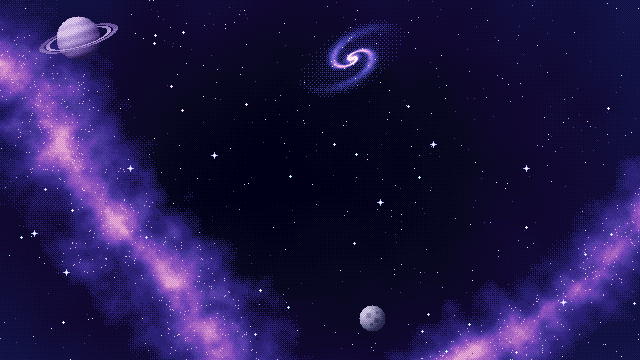
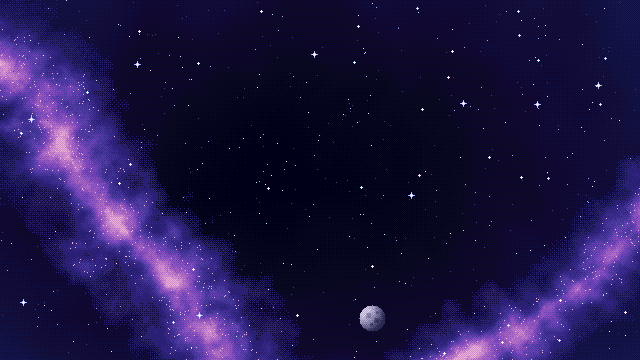
성탑 우주 배경: 고리 행성·나선 은하 뺌
Claude-Session: https://claude.ai/code/session_01SZsqwNDrXxR8hqxsu6HHNk

Changed region(s): [[0.5, 0.0611, 0.625, 0.275], [0.0625, 0.0306, 0.1875, 0.1833], [0.875, 0.825, 0.9062, 0.8556]]

diff --git a/docs/drafts/space-bg/space.py b/docs/drafts/space-bg/space.py
@@ -5,6 +5,10 @@
 실행: python3 docs/drafts/space-bg/space.py → public/assets/upgrade/space_bg.png · meteor.png · twinkle.png
 """
 import math, os
+
+# 2026-11-23 사용자 요청: 고리 행성·나선 은하는 뺌 (켜려면 True)
+DRAW_GALAXY = False
+DRAW_PLANET = False
 import numpy as np
 from PIL import Image
 
@@ -89,42 +93,44 @@ img[dust] = np.array(NEB[-1], np.uint8)
 
 # 3) 나선 은하 (트리와 오른쪽 정보 창 사이 위쪽 — 오른쪽 1/3 은 창에 가려진다)
 gx, gy = 352, 58
-ang = -0.45
-dx, dy = XX - gx, YY - gy
-rx = dx * math.cos(ang) + dy * math.sin(ang)
-ry = (-dx * math.sin(ang) + dy * math.cos(ang)) / 0.55
-r = np.hypot(rx, ry)
-th = np.arctan2(ry, rx)
-arm = np.cos(2 * (th - np.log(r + 1) * 2.2)) * 0.5 + 0.5
-env = np.clip(1 - r / 60, 0, 1)
-gal = env ** 1.1 * (0.1 + 0.95 * arm ** 4) + np.clip(1 - r / 12, 0, 1) ** 1.4 * 1.0 + env ** 3 * 0.15
-gal = np.clip(gal * (0.75 + noise(8, 3, 5) * 0.5), 0, 1)
-ramp_fade(gal, GAL, 0.3)
-gdust = (rng.random((H, W)) > 0.97) & (gal > 0.3) & (gal < 0.8)
-img[gdust] = np.array(GAL[-2], np.uint8)
+if DRAW_GALAXY:
+    ang = -0.45
+    dx, dy = XX - gx, YY - gy
+    rx = dx * math.cos(ang) + dy * math.sin(ang)
+    ry = (-dx * math.sin(ang) + dy * math.cos(ang)) / 0.55
+    r = np.hypot(rx, ry)
+    th = np.arctan2(ry, rx)
+    arm = np.cos(2 * (th - np.log(r + 1) * 2.2)) * 0.5 + 0.5
+    env = np.clip(1 - r / 60, 0, 1)
+    gal = env ** 1.1 * (0.1 + 0.95 * arm ** 4) + np.clip(1 - r / 12, 0, 1) ** 1.4 * 1.0 + env ** 3 * 0.15
+    gal = np.clip(gal * (0.75 + noise(8, 3, 5) * 0.5), 0, 1)
+    ramp_fade(gal, GAL, 0.3)
+    gdust = (rng.random((H, W)) > 0.97) & (gal > 0.3) & (gal < 0.8)
+    img[gdust] = np.array(GAL[-2], np.uint8)
 
 # 4) 고리 행성 (왼쪽 위) — 고리 뒤쪽 → 행성 → 고리 앞쪽
 px0, py0, pr = 78, 38, 22
-rt = -0.28
-def ring_mask(front):
-    ddx, ddy = XX - px0, YY - py0
-    u = ddx * math.cos(rt) + ddy * math.sin(rt)
-    v = (-ddx * math.sin(rt) + ddy * math.cos(rt)) / 0.26
-    rr = np.hypot(u, v)
-    mm = ((rr > 30) & (rr < 34)) | ((rr > 35.5) & (rr < 41))
-    return mm & ((v > 0) if front else (v <= 0)), rr
-rm, rr = ring_mask(False)
-ringv = np.where(rr < 34.5, 0.75, 0.5)
-ramp(ringv, PLA, rm)
-pd = np.hypot(XX - px0, YY - py0)
-pm = pd <= pr
-lx, ly = -0.55, -0.6
-nz = np.sqrt(np.clip(1 - (pd / pr) ** 2, 0, 1))
-shade = np.clip(((XX - px0) / pr * lx + (YY - py0) / pr * ly + nz * 0.6) * 0.7 + 0.35, 0, 1)
-stripes = np.sin((YY - py0 + (XX - px0) * 0.28) * 0.55) * 0.08
-ramp(np.clip(shade + stripes, 0, 1), PLA, pm)
-rm, rr = ring_mask(True)
-ramp(np.where(rr < 34.5, 0.85, 0.62), PLA, rm)
+if DRAW_PLANET:
+    rt = -0.28
+    def ring_mask(front):
+        ddx, ddy = XX - px0, YY - py0
+        u = ddx * math.cos(rt) + ddy * math.sin(rt)
+        v = (-ddx * math.sin(rt) + ddy * math.cos(rt)) / 0.26
+        rr = np.hypot(u, v)
+        mm = ((rr > 30) & (rr < 34)) | ((rr > 35.5) & (rr < 41))
+        return mm & ((v > 0) if front else (v <= 0)), rr
+    rm, rr = ring_mask(False)
+    ringv = np.where(rr < 34.5, 0.75, 0.5)
+    ramp(ringv, PLA, rm)
+    pd = np.hypot(XX - px0, YY - py0)
+    pm = pd <= pr
+    lx, ly = -0.55, -0.6
+    nz = np.sqrt(np.clip(1 - (pd / pr) ** 2, 0, 1))
+    shade = np.clip(((XX - px0) / pr * lx + (YY - py0) / pr * ly + nz * 0.6) * 0.7 + 0.35, 0, 1)
+    stripes = np.sin((YY - py0 + (XX - px0) * 0.28) * 0.55) * 0.08
+    ramp(np.clip(shade + stripes, 0, 1), PLA, pm)
+    rm, rr = ring_mask(True)
+    ramp(np.where(rr < 34.5, 0.85, 0.62), PLA, rm)
 
 # 5) 달 (아래 가운데 오른쪽, 창에 안 가리는 곳)
 mx0, my0, mr = 372, 318, 13
@@ -139,7 +145,7 @@ ramp(sh, MOON, mm)
 
 # 6) 별 (행성·달·은하 중심 피해서)
 def free(x, y):
-    return np.hypot(x - px0, y - py0) > 48 and np.hypot(x - mx0, y - my0) > 20 and np.hypot(x - gx, y - gy) > 24
+    return (not DRAW_PLANET or np.hypot(x - px0, y - py0) > 48) and np.hypot(x - mx0, y - my0) > 20 and (not DRAW_GALAXY or np.hypot(x - gx, y - gy) > 24)
 def put(x, y, c):
     if 0 <= x < W and 0 <= y < H:
         img[y, x] = c

diff --git a/CLAUDE.md b/CLAUDE.md
@@ -61,7 +61,7 @@
 
 ## 확정 규칙 — 명성 강화·로비
 - 명성 = 영구 강화 재화(골드와 분리). 방사형 노드 트리(뿌리에서 공격·경제·전술·방어 4갈래, `docs/UPGRADES.md`). 룰 v2: 속성 노드 → 마나·전열·후열·마나 정수, 고용 노드 → 리롤 할인·영지 개발·정찰대(무료 리롤)·영지 기틀(시작 영지 레벨), 레어/유니크 고용 확률 → 상점 확률. 명성은 웨이브를 버틸 때마다 바로 저장
-- **성탑(강화) 노드 화면 배경 (2026-11-23 사용자 요청)**: **16비트 색(RGB555) 픽셀아트 우주를 코드로 새로 그림** — 640x360, 화면 1080p 에서 아트 1px = **3x3**(이 화면만 3px, `SPACE_PX`), 하늘 바이어 디더 띠·성운 2줄기·나선 은하·고리 행성·달·별 (`docs/drafts/space-bg/space.py` → `public/assets/upgrade/space_bg.png`). **별똥별 = 28프레임 시트**(140x80, 40ms, 오른쪽 위 → 왼쪽 아래, 0.7~2.4초마다·가끔 둘) + 반짝이는 십자 별 14개(8프레임) (`UpgradeScene.createSpaceFx`, 트리 뒤). 은하·달은 오른쪽 정보 창에 안 가리는 자리. 예전 세로 그림 `upgrade_bg.webp` 는 안 씀
+- **성탑(강화) 노드 화면 배경 (2026-11-23 사용자 요청)**: **16비트 색(RGB555) 픽셀아트 우주를 코드로 새로 그림** — 640x360, 화면 1080p 에서 아트 1px = **3x3**(이 화면만 3px, `SPACE_PX`), 하늘 바이어 디더 띠·성운 2줄기·달·별 — 고리 행성·나선 은하는 뺌(2026-11-23 사용자 요청, `DRAW_PLANET`·`DRAW_GALAXY`) (`docs/drafts/space-bg/space.py` → `public/assets/upgrade/space_bg.png`). **별똥별 = 28프레임 시트**(140x80, 40ms, 오른쪽 위 → 왼쪽 아래, 0.7~2.4초마다·가끔 둘) + 반짝이는 십자 별 14개(8프레임) (`UpgradeScene.createSpaceFx`, 트리 뒤). 달은 오른쪽 정보 창에 안 가리는 자리. 예전 세로 그림 `upgrade_bg.webp` 는 안 씀
 - **강화 버튼 (2026-11-18, 필드 성탑 삭제)**: 전투 화면 하단 작은 버튼 줄(배속·메뉴·**강화**). 누르면 전투가 멈추고 노드 트리 — 판 도중에도 찍을 수 있고 닫으면 즉시 반영. 살 수 있는 노드가 있으면 버튼 위에 "!"(2026-11-21: 원 r12, 굵은 도형 느낌표) — 쉬는 크기에서 이웃(영지 버튼·위 상점 칸)과 4px 이상(2026-11-22, 상점 칸 y 782) — 1.3초마다 스케일 팝(1→1.35→0.92→1) 반복, 배속·정지와 상관없이 실제 시간 (2026-11-19)
 - **영지(로비)**: 배경 = 가로 영지 도트 그림(`lobby_wide` 640x360). 사용자 그림(해 질 녘 호숫가 성 941x1672 `public/assets/lobby/lobby_bg.webp`)은 세로라 PC 에서는 안 씀 — **가로 그림 필요**(2026-11-22). 메뉴 버튼(진한 갈색 굵은 테두리 + 아래 입술, theme `menu` 스타일, 흔들림 없음)은 **오른쪽 정렬 세로 줄**(폭 188, 위에서 성탑(노드) · 병영(덱 편성) · **술집**(마정석 고용) · **유물 공방**(마정석 유물 생산·장착)) — 그림 위 건물 자리·건물 누르기는 없앰. **누르면 화면이 옆으로 밀려 넘어가고(새 화면이 오른쪽에서), 영지로 돌아올 때는 반대로**(`src/ui/slide.js` `slideTo`, 실제 시간 0.36초, 넘어가는 중엔 다른 전환 무시). 출전(전투)은 바로 넘어감. **ESC 메뉴**(2026-11-22): 볼륨·음소거·계속하기·게임 종료·튜토리얼 다시 보기 — 영지에서 **게임 종료(두 번 누름)는 게임을 완전히 끝낸다**(`quitApp`: 창 닫기 시도, 막히면 게임을 멈추고 '창을 닫아 주세요' 화면, `src/ui/settingsMenu.js`). 위: 왼쪽 용병단 이름 + **오른쪽 위 재화 2종**(명성·마정석, 같은 높이 52). 아래: **출전 덱과 출전 버튼을 한 판(독)에** — 덱은 큰 카드 한 줄, 좌우로 밀어서 보기, 누르면 병영
 - 타이틀: 사용자 일러스트(`public/assets/title/title.png`, perfectPixel 정리 312x553, 영문 로고 — 세로 그림이라 PC 에서는 가운데 + 양옆 밤하늘색, **가로 그림 필요**) + CLICK TO START(1.1초 사인 페이드·맥동), 아래 '명성 강화' 버튼·최고 기록. 한글 제목 없음

diff --git a/docs/HISTORY.md b/docs/HISTORY.md
@@ -264,3 +264,4 @@
 - 2026-11-23 곡선 UI 고침 (사용자 요청): 원·알약·고리를 거리 계산으로 칠한 텍스처로(`discImage`·`pillImage`·`ringImage` — 좌우·상하 정확히 대칭), 아이콘은 안쪽 원으로 잘라 그림, 아이템 칸 진짜 원, 알약 테두리 화면 2px · ui-audit 에 곡선 UI 8배 확대 그림 · e2e 대칭 검사. 도트 스타일 UI 는 폐기 (`feature/pc-1080`)
 - 2026-11-23 **PC 전환 2단계 — 저장 한 곳으로**: `src/systems/storage.js` (웹 localStorage / 데스크톱 `window.rtdNative.storage` 파일 / 메모리), 시작 때 파일 미리 읽기·쓰기 묶음·창 닫을 때 flush·실패 재시도·진행 저장 .bak 복구·웹 저장 옮겨 오기·내보내기/가져오기. meta·audio 가 직접 쓰던 localStorage 를 옮김. 규약 `docs/SAVE.md` (`feature/save-storage`)
 - 2026-11-23 성탑 노드 화면 배경: 16비트 색 픽셀아트 우주(640x360, 아트 1px = 3x3, 코드로 새로 그림) + 별똥별 28프레임 시트·반짝이는 별 (`feature/ui-space-bg`)
+- 2026-11-23 성탑 우주 배경에서 고리 행성·나선 은하 뺌 (사용자 요청)
